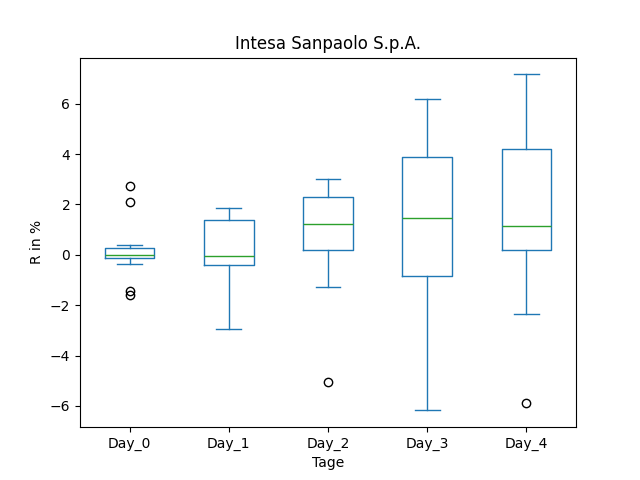
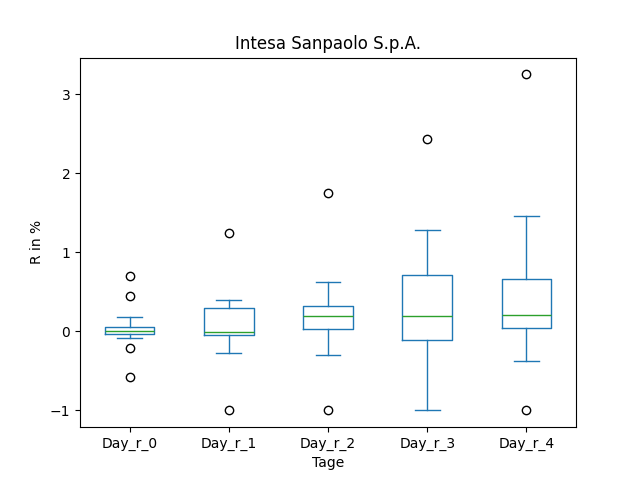
update report

diff --git a/README.md b/README.md
@@ -14,10 +14,10 @@ bet on falling prices on payday
 ## SGAPY
 
 ### Erwartung in R
-|      |   Day_0 |   Day_1 |   Day_2 |   Day_3 |   Day_4 |   Treffer |
-|:-----|--------:|--------:|--------:|--------:|--------:|----------:|
-| ohne |     0   |     0.9 |     0.9 |     0.6 |     1.1 |        34 |
-| mit  |     0.8 |     1.9 |     0.8 |    -0   |     1.2 |         2 |
+|      |   Day_r_0 |   Day_r_1 |   Day_r_2 |   Day_r_3 |   Day_r_4 |   Treffer |
+|:-----|----------:|----------:|----------:|----------:|----------:|----------:|
+| ohne |       0   |      -0   |       0.2 |       0.1 |       0.1 |        34 |
+| mit  |       0.2 |      -0.2 |      -0.3 |      -0.3 |      -0.3 |         2 |
 
 ### Ohne Filter
 ![image info](./data/SGAPY_box_all.png)
@@ -30,10 +30,10 @@ bet on falling prices on payday
 ## ISNPY
 
 ### Erwartung in R
-|      |   Day_0 |   Day_1 |   Day_2 |   Day_3 |   Day_4 |   Treffer |
-|:-----|--------:|--------:|--------:|--------:|--------:|----------:|
-| ohne |       0 |    -0.1 |     0.9 |    -0.3 |     0.7 |        18 |
-| mit  |       0 |    -0.1 |     1.2 |     1.5 |     1.2 |        14 |
+|      |   Day_r_0 |   Day_r_1 |   Day_r_2 |   Day_r_3 |   Day_r_4 |   Treffer |
+|:-----|----------:|----------:|----------:|----------:|----------:|----------:|
+| ohne |         0 |        -0 |       0.1 |      -0   |       0.1 |        18 |
+| mit  |         0 |        -0 |       0.2 |       0.2 |       0.2 |        14 |
 
 ### Ohne Filter
 ![image info](./data/ISNPY_box_all.png)
@@ -46,10 +46,10 @@ bet on falling prices on payday
 ## IRS
 
 ### Erwartung in R
-|      |   Day_0 |   Day_1 |   Day_2 |   Day_3 |   Day_4 |   Treffer |
-|:-----|--------:|--------:|--------:|--------:|--------:|----------:|
-| ohne |     0.3 |     1.4 |    -0.5 |     1.7 |     1.9 |        14 |
-| mit  |     3.5 |     6.1 |     1.9 |     4.5 |     6.6 |         2 |
+|      |   Day_r_0 |   Day_r_1 |   Day_r_2 |   Day_r_3 |   Day_r_4 |   Treffer |
+|:-----|----------:|----------:|----------:|----------:|----------:|----------:|
+| ohne |       0.2 |       0.6 |       0.1 |       0.2 |       0   |        14 |
+| mit  |       0.7 |       1   |       0.2 |       0.3 |       0.5 |         2 |
 
 ### Ohne Filter
 ![image info](./data/IRS_box_all.png)
@@ -62,10 +62,10 @@ bet on falling prices on payday
 ## BEBE
 
 ### Erwartung in R
-|      |   Day_0 |   Day_1 |   Day_2 |   Day_3 |   Day_4 |   Treffer |
-|:-----|--------:|--------:|--------:|--------:|--------:|----------:|
-| ohne |       0 |       0 |     0.3 |     0.3 |       0 |        65 |
-| mit  |     nan |     nan |   nan   |   nan   |     nan |         0 |
+|      |   Day_r_0 |   Day_r_1 |   Day_r_2 |   Day_r_3 |   Day_r_4 |   Treffer |
+|:-----|----------:|----------:|----------:|----------:|----------:|----------:|
+| ohne |         0 |      -0.2 |         0 |      -0.2 |      -0.5 |        65 |
+| mit  |       nan |     nan   |       nan |     nan   |     nan   |         0 |
 
 ### Ohne Filter
 ![image info](./data/BEBE_box_all.png)

diff --git a/data/ISNPY.md b/data/ISNPY.md
@@ -1,8 +1,8 @@
 ### Erwartung in R
-|      |   Day_0 |   Day_1 |   Day_2 |   Day_3 |   Day_4 |   Treffer |
-|:-----|--------:|--------:|--------:|--------:|--------:|----------:|
-| ohne |       0 |    -0.1 |     0.9 |    -0.3 |     0.7 |        18 |
-| mit  |       0 |    -0.1 |     1.2 |     1.5 |     1.2 |        14 |
+|      |   Day_r_0 |   Day_r_1 |   Day_r_2 |   Day_r_3 |   Day_r_4 |   Treffer |
+|:-----|----------:|----------:|----------:|----------:|----------:|----------:|
+| ohne |         0 |        -0 |       0.1 |      -0   |       0.1 |        18 |
+| mit  |         0 |        -0 |       0.2 |       0.2 |       0.2 |        14 |
 
 ### Ohne Filter
 ![image info](./data/ISNPY_box_all.png)

diff --git a/data/SGAPY.md b/data/SGAPY.md
@@ -1,8 +1,8 @@
 ### Erwartung in R
-|      |   Day_0 |   Day_1 |   Day_2 |   Day_3 |   Day_4 |   Treffer |
-|:-----|--------:|--------:|--------:|--------:|--------:|----------:|
-| ohne |     0   |     0.9 |     0.9 |     0.6 |     1.1 |        34 |
-| mit  |     0.8 |     1.9 |     0.8 |    -0   |     1.2 |         2 |
+|      |   Day_r_0 |   Day_r_1 |   Day_r_2 |   Day_r_3 |   Day_r_4 |   Treffer |
+|:-----|----------:|----------:|----------:|----------:|----------:|----------:|
+| ohne |       0   |      -0   |       0.2 |       0.1 |       0.1 |        34 |
+| mit  |       0.2 |      -0.2 |      -0.3 |      -0.3 |      -0.3 |         2 |
 
 ### Ohne Filter
 ![image info](./data/SGAPY_box_all.png)

diff --git a/data/BEBE.md b/data/BEBE.md
@@ -1,8 +1,8 @@
 ### Erwartung in R
-|      |   Day_0 |   Day_1 |   Day_2 |   Day_3 |   Day_4 |   Treffer |
-|:-----|--------:|--------:|--------:|--------:|--------:|----------:|
-| ohne |       0 |       0 |     0.3 |     0.3 |       0 |        65 |
-| mit  |     nan |     nan |   nan   |   nan   |     nan |         0 |
+|      |   Day_r_0 |   Day_r_1 |   Day_r_2 |   Day_r_3 |   Day_r_4 |   Treffer |
+|:-----|----------:|----------:|----------:|----------:|----------:|----------:|
+| ohne |         0 |      -0.2 |         0 |      -0.2 |      -0.5 |        65 |
+| mit  |       nan |     nan   |       nan |     nan   |     nan   |         0 |
 
 ### Ohne Filter
 ![image info](./data/BEBE_box_all.png)

diff --git a/data/IRS.md b/data/IRS.md
@@ -1,8 +1,8 @@
 ### Erwartung in R
-|      |   Day_0 |   Day_1 |   Day_2 |   Day_3 |   Day_4 |   Treffer |
-|:-----|--------:|--------:|--------:|--------:|--------:|----------:|
-| ohne |     0.3 |     1.4 |    -0.5 |     1.7 |     1.9 |        14 |
-| mit  |     3.5 |     6.1 |     1.9 |     4.5 |     6.6 |         2 |
+|      |   Day_r_0 |   Day_r_1 |   Day_r_2 |   Day_r_3 |   Day_r_4 |   Treffer |
+|:-----|----------:|----------:|----------:|----------:|----------:|----------:|
+| ohne |       0.2 |       0.6 |       0.1 |       0.2 |       0   |        14 |
+| mit  |       0.7 |       1   |       0.2 |       0.3 |       0.5 |         2 |
 
 ### Ohne Filter
 ![image info](./data/IRS_box_all.png)
